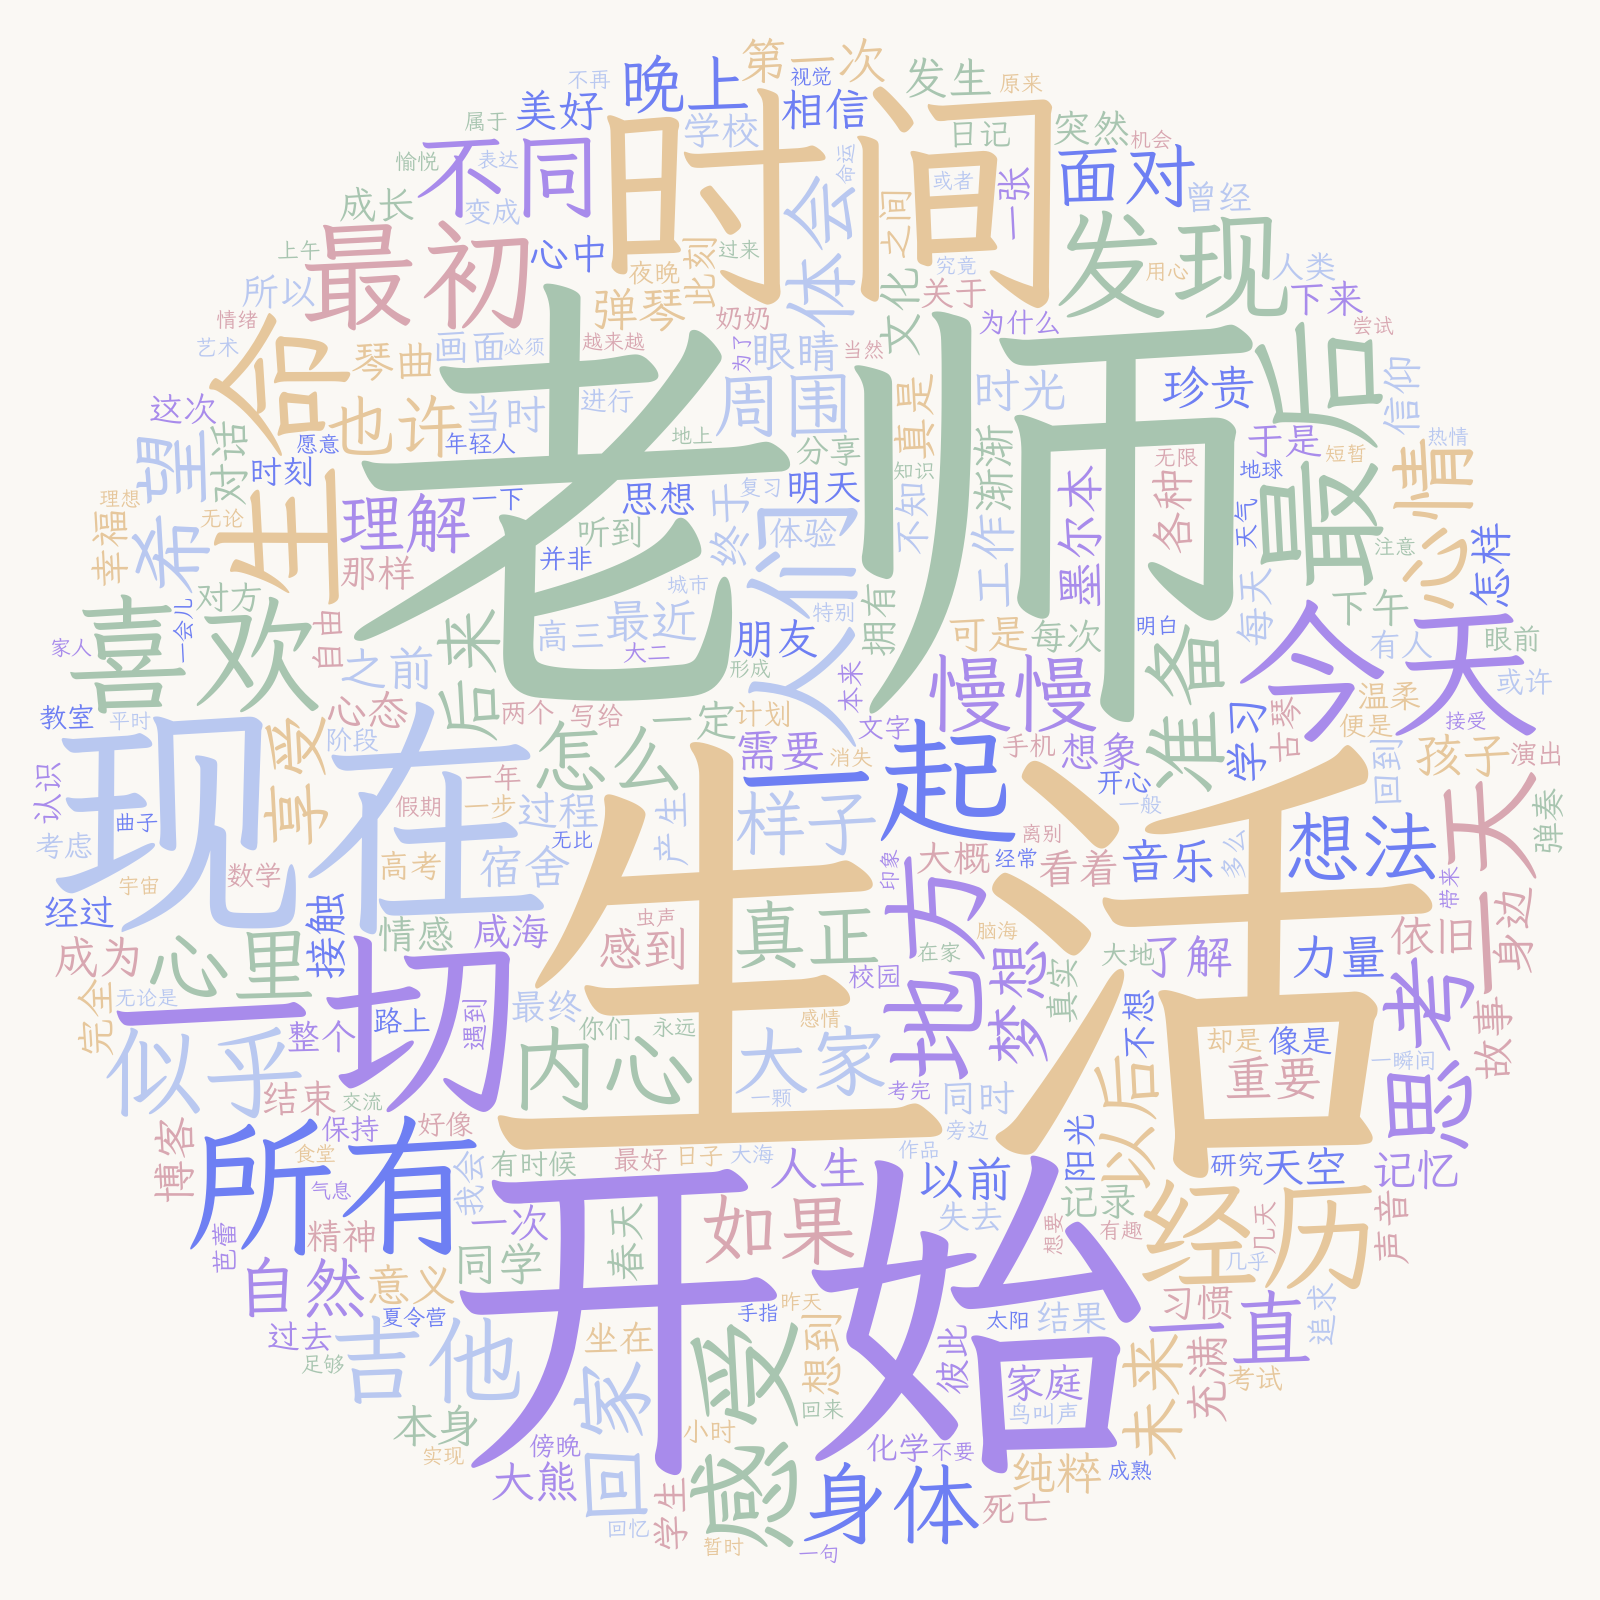
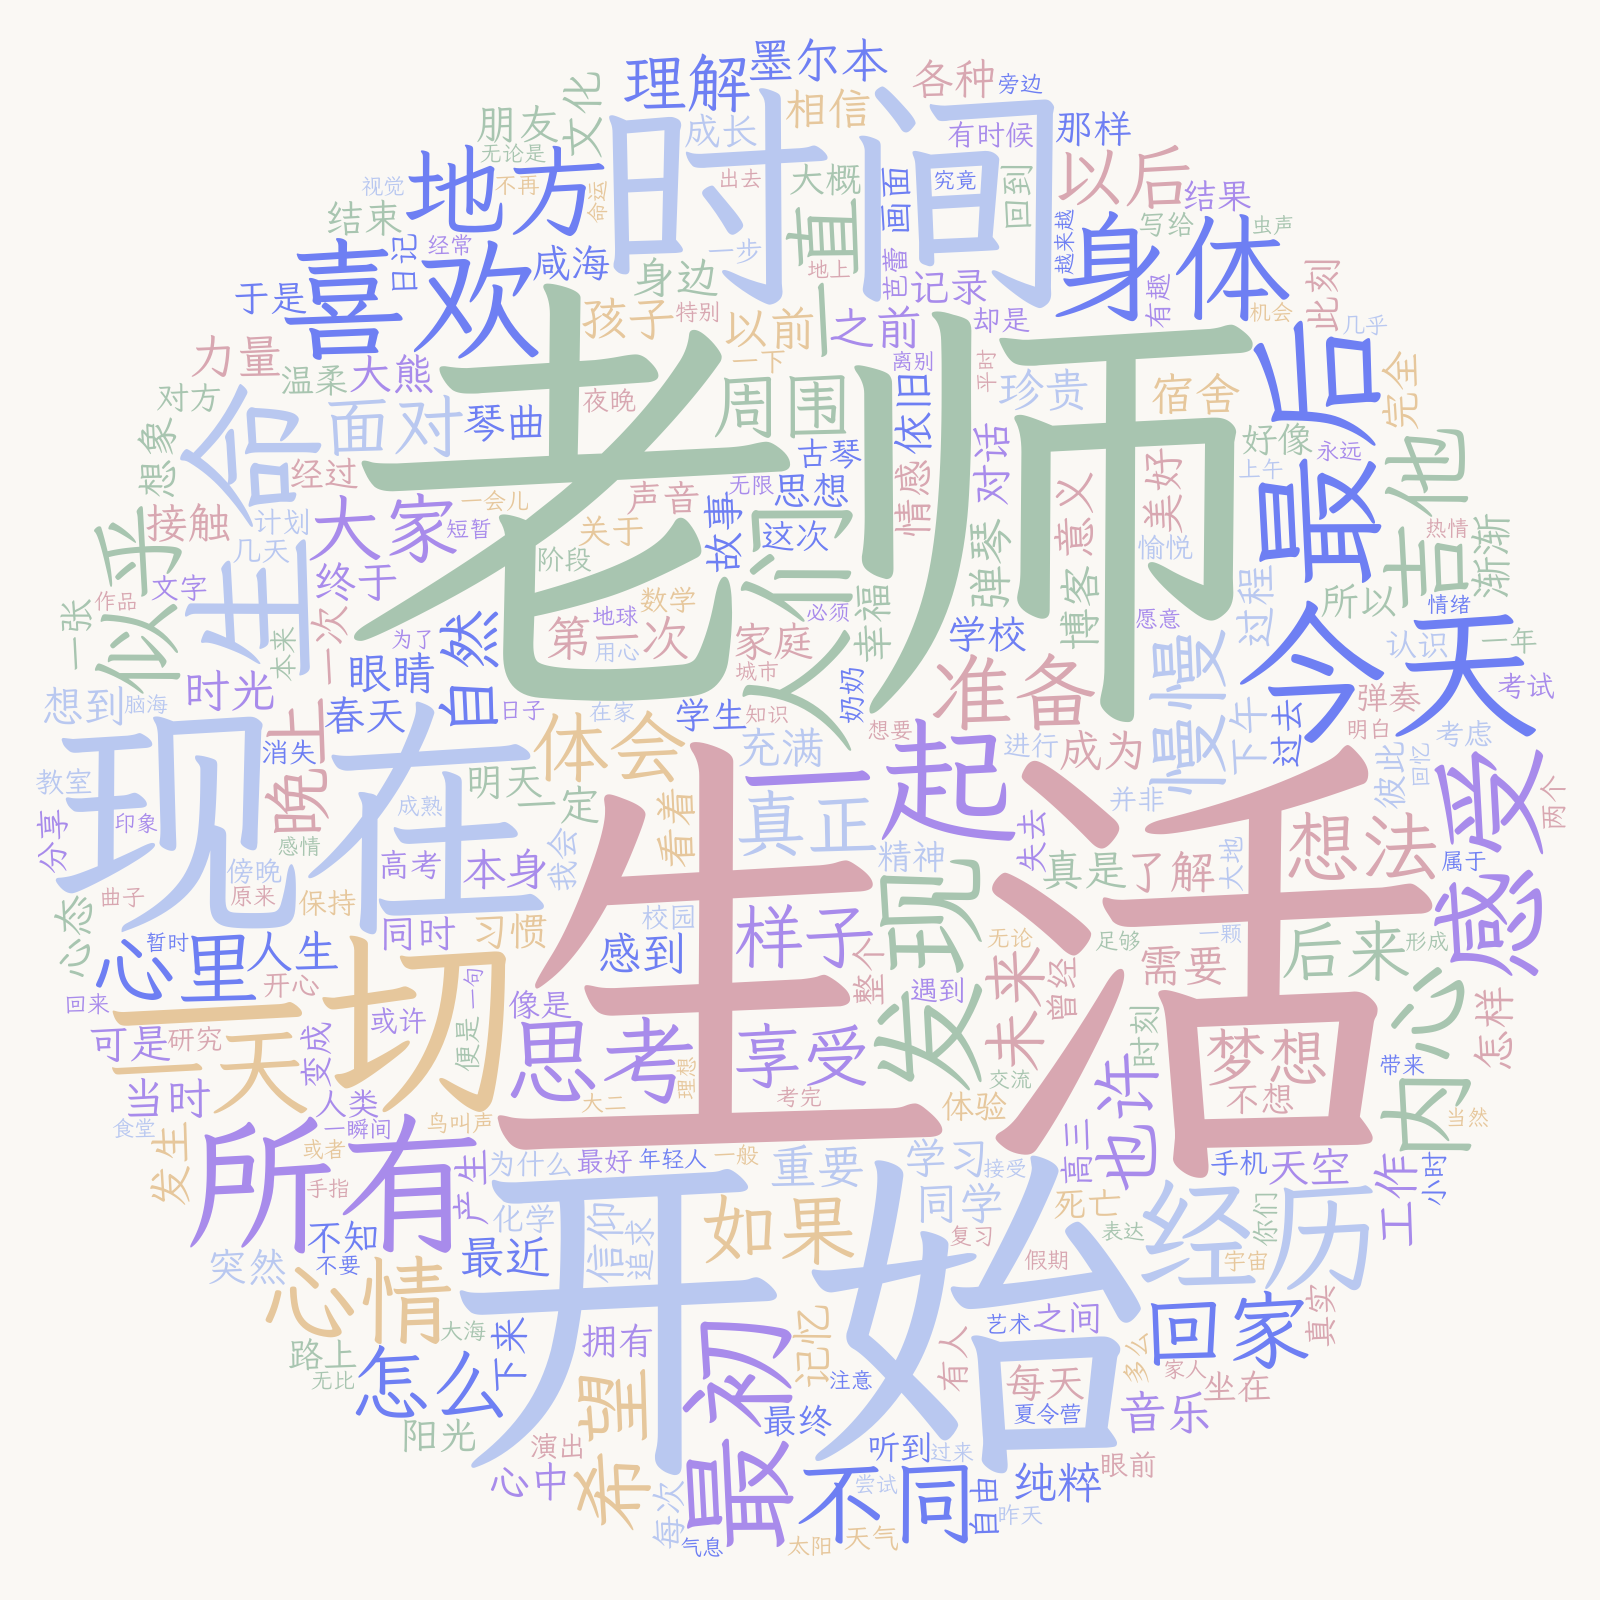
update notes

Changed region(s): [[0.0, 0.0, 1.0, 0.9688]]

diff --git a/content/日记/把自己让给身体.md b/content/日记/把自己让给身体.md
@@ -1,0 +1,11 @@
+---
+title: 把自己让给身体
+date: 2026-06-04T09:17
+lastmod: 2026-06-04T09:17
+---
+不知道从什么时候，在床上醒来一睁眼脑子就开始用功了，并且有很强烈的看手机的欲望，好像真的有人会给我发消息一样。哦，糟糕，同事一大早回了我昨天的邮件，这下好了，又有事得做了。
+
+早上天气这么好，阳光这么明媚，空气这么清新，我居然在一睁眼自己的状态刚刚和天地融洽起来就和它分开了，一种从内而外的疲劳感顿生。痛定思痛，不能再这样了，我决定把自己坚决地还给自己的身体，它这几天具有绝对的优先权。除非什么非常紧急的任务，我要锻炼自己可以随时放下自己的心绪。
+
+这样才好，好，我出去散步去了！自己要像一个动物一样！
+

diff --git a/content/诗/灰尘.md b/content/诗/灰尘.md
@@ -1,0 +1,10 @@
+---
+title: 灰尘
+date: 2026-06-08T08:42
+lastmod: 2026-06-08T08:42
+---
+早上在床上穿衣服<br>一束光从窗帘缝直射进来<br>我竟然看到了灰尘在跳舞<br>好像到了另一个人间
+
+需要有多细腻和愉悦的心情<br>才能收到灰尘们的邀请啊<br>它们在空中热烈地翻涌<br>随即一转眼又消失在光芒落不到的地方
+
+但你知道你不必用眼睛<br>它们很温柔<br>好像宇宙的繁星一样<br>包裹着你的身体

diff --git a/content/all-notes.md b/content/all-notes.md
@@ -1,7 +1,8 @@
 ---
 title: 总览
 ---
-
+2026-06-08 — [[灰尘]]
+<br>2026-06-04 — [[把自己让给身体]]
 <br>2026-04-25 — [[欢愉]]
 <br>2026-02-15 — [[清晨的雨]]
 <br>2025-11-19 — [[火种]]
